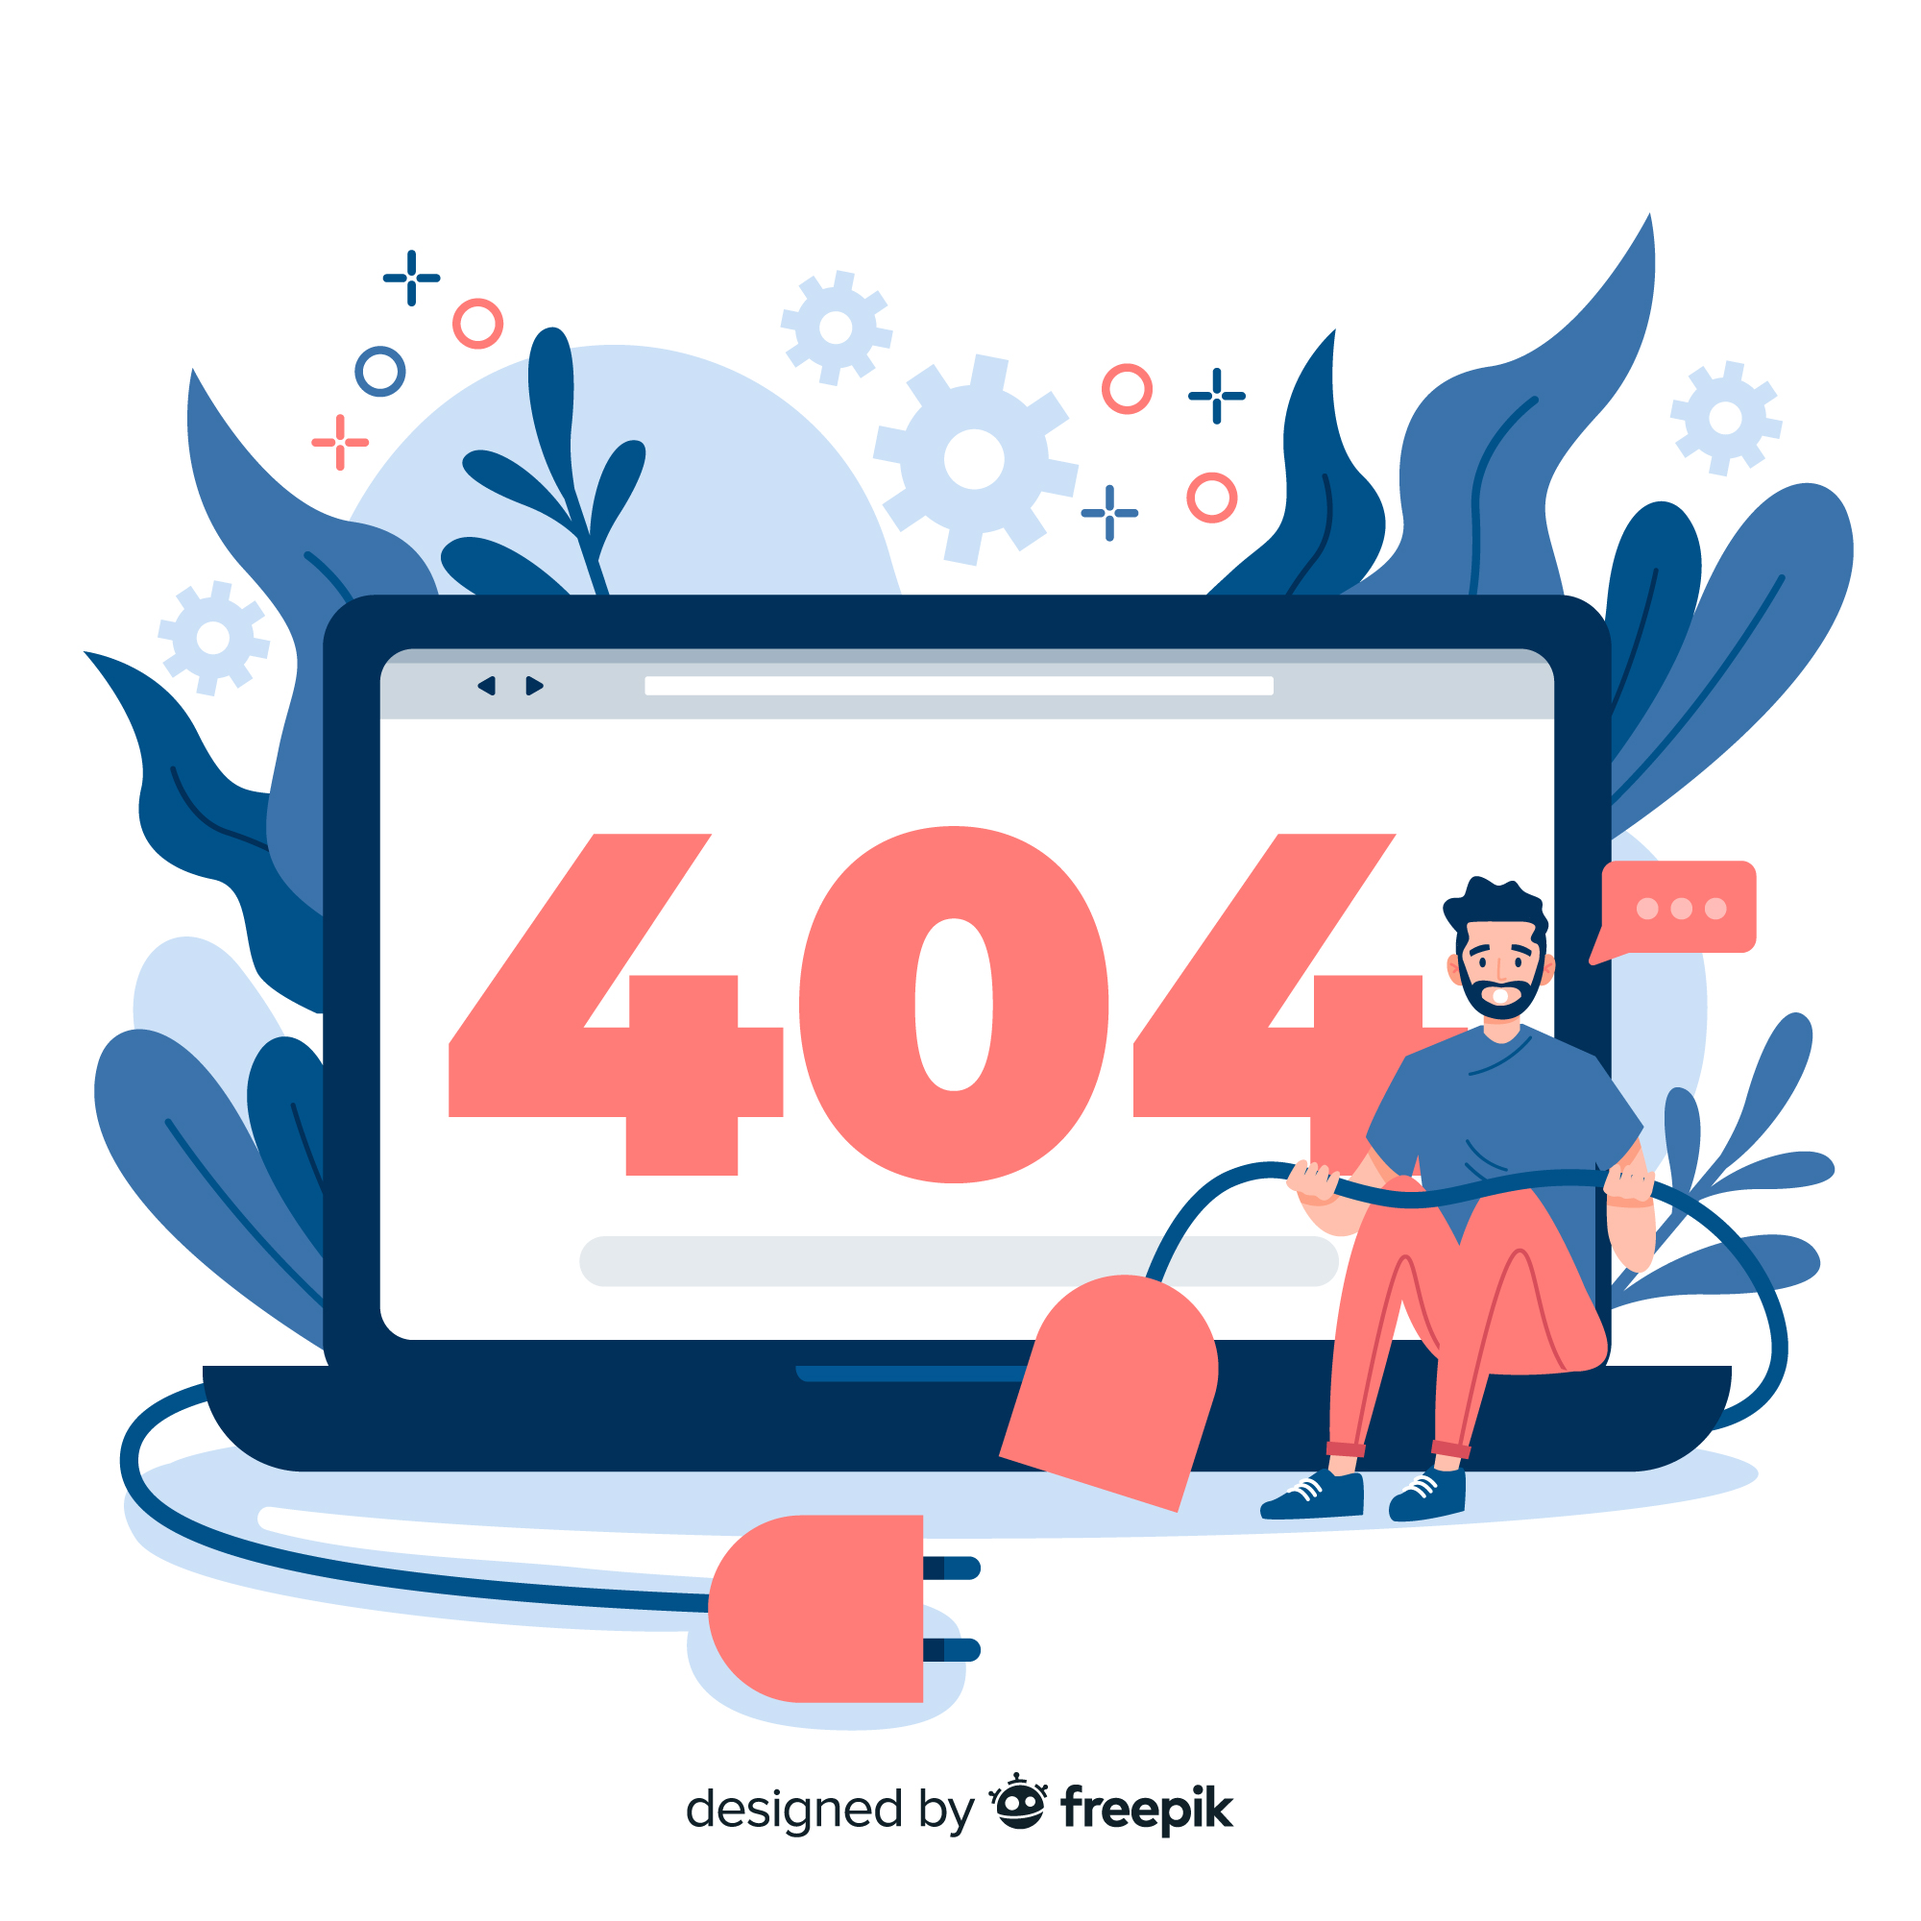
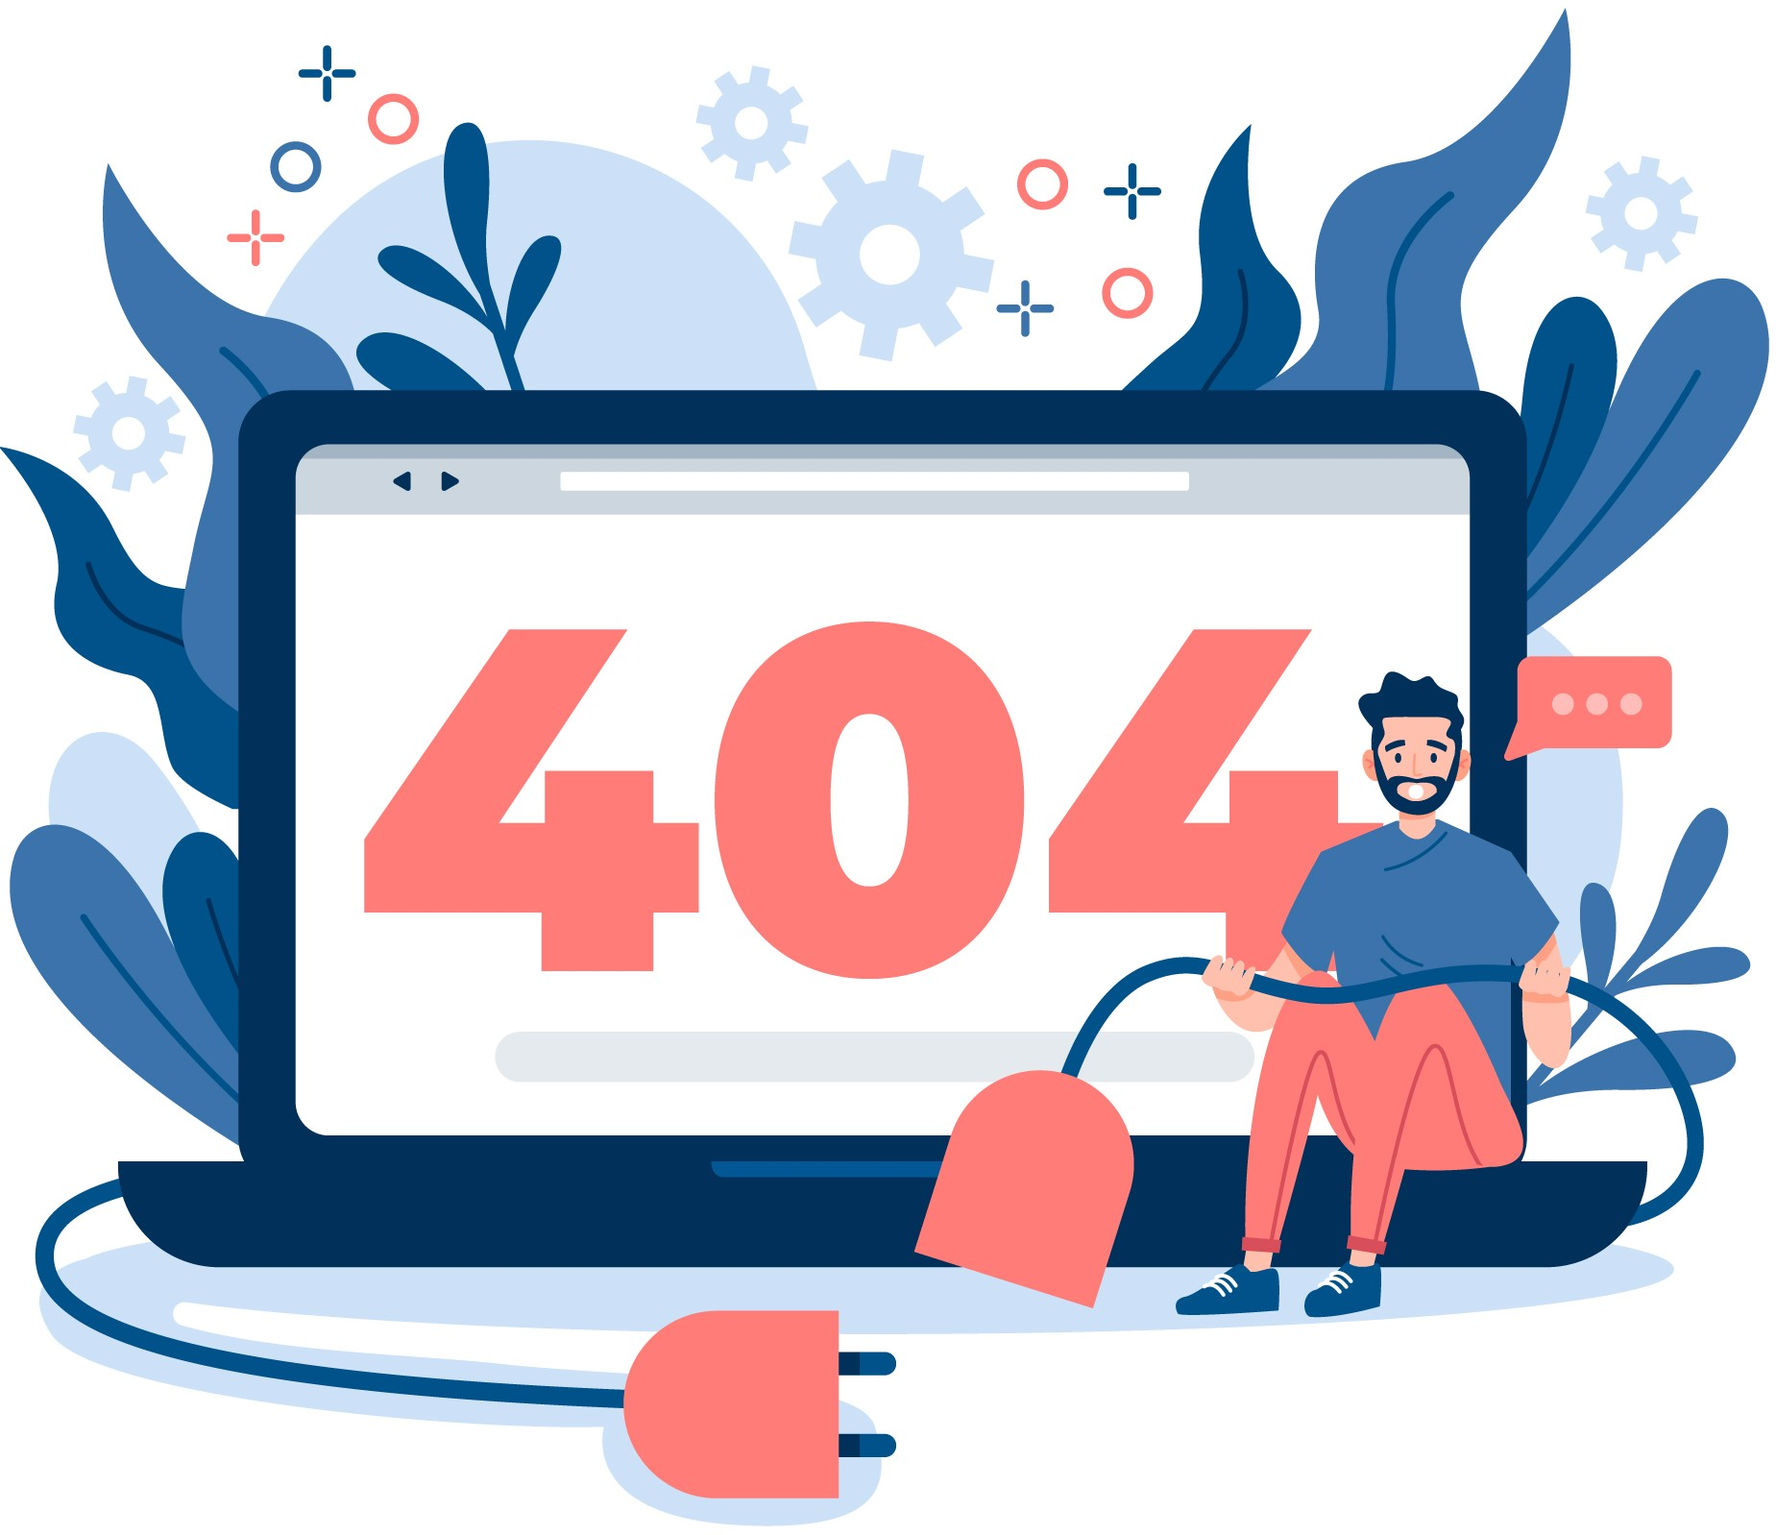
Published

diff --git a/build/index.html b/build/index.html
@@ -1,1 +1,1 @@
-<!doctype html><html lang="en"><head><meta charset="utf-8"/><link rel="icon" href="/Amazing-Events-React/favicon.ico"/><meta name="viewport" content="width=device-width,initial-scale=1"/><meta name="theme-color" content="#000000"/><meta name="description" content="Web site created using create-react-app"/><link rel="apple-touch-icon" href="/Amazing-Events-React/logo192.png"/><link rel="manifest" href="/Amazing-Events-React/manifest.json"/><title>Amazing Events</title><script defer="defer" src="/Amazing-Events-React/static/js/main.1a3f59b0.js"></script><link href="/Amazing-Events-React/static/css/main.52a02c88.css" rel="stylesheet"></head><body><noscript>You need to enable JavaScript to run this app.</noscript><div id="root"></div></body></html>
+<!doctype html><html lang="en"><head><meta charset="utf-8"/><link rel="icon" href="/Amazing-Events-React/favicon.ico"/><meta name="viewport" content="width=device-width,initial-scale=1"/><meta name="theme-color" content="#000000"/><meta name="description" content="Web site created using create-react-app"/><link rel="apple-touch-icon" href="/Amazing-Events-React/logo192.png"/><link rel="manifest" href="/Amazing-Events-React/manifest.json"/><title>Amazing Events</title><script defer="defer" src="/Amazing-Events-React/static/js/main.8c43c67d.js"></script><link href="/Amazing-Events-React/static/css/main.addf8991.css" rel="stylesheet"></head><body><noscript>You need to enable JavaScript to run this app.</noscript><div id="root"></div></body></html>

diff --git a/src/Components/pure/card.jsx b/src/Components/pure/card.jsx
@@ -3,6 +3,9 @@ import { Link } from 'react-router-dom';
 import { moneyFormater } from '../../service/moneyFormat';
 
 const Card = ({ event, addFavorite, removeFavorite, backOfDetails }) => {
+
+    const domain = '/Amazing-Events-React'
+
     return (
         <div className="max-w-sm bg-white rounded-lg borde shadow-md w-60 bg-contain my-5 mx-2">
             <div className='w-full h-40 rounded-t-lg' style={{ backgroundImage: `url(${event.image})` }} />
@@ -14,7 +17,7 @@ const Card = ({ event, addFavorite, removeFavorite, backOfDetails }) => {
                     {event.estimate ? <p className='font-bold bg-personalizado text-white px-1 rounded-md'>{moneyFormater(event.price)}</p> : undefined}
                 </div>
                 <div className='flex justify-around'>
-                    <Link onClick={backOfDetails} to={`/events/${event._id}`} className="inline-flex items-center links hover:underline">
+                    <Link onClick={backOfDetails} to={domain + `/events/${event._id}`} className="inline-flex items-center links hover:underline">
                         View more
                         <svg className="ml-2 w-5 h-5" fill="currentColor" viewBox="0 0 20 20" xmlns="http://www.w3.org/2000/svg">
                             <path d="M11 3a1 1 0 100 2h2.586l-6.293 6.293a1 1 0 101.414 1.414L15 6.414V9a1 1 0 102 0V4a1 1 0 00-1-1h-5z"></path>

diff --git a/src/Components/pure/Nav.jsx b/src/Components/pure/Nav.jsx
@@ -6,14 +6,16 @@ import '../../Styles/nav.css'
 import NavDropdown from '../container/NavDropdown';
 
 const Nav = () => {
-    return (
 
+    const domain = '/Amazing-Events-React'
+
+    return (
         <div className='container mx-auto sticky top-0 shadow-personalizada z-10'>
             <Navbar
                 fluid={true}
                 rounded={true}
             >
-                <NavLink end to={'/'}>
+                <NavLink end to={domain + '/'}>
                     <img
                         src={Logo}
                         className="mr-3 h-6 sm:h-9"
@@ -22,10 +24,10 @@ const Nav = () => {
                 </NavLink>
                 <Navbar.Toggle />
                 <Navbar.Collapse>
-                    <NavLink end to={'/'}>Home</NavLink>
-                    <NavDropdown path={'/events'} />
-                    <NavLink to={'/contact'}>Contact</NavLink>
-                    <NavLink to={'/stats'}>Stats</NavLink>
+                    <NavLink end to={domain + '/'}>Home</NavLink>
+                    <NavDropdown path={domain + '/events'} />
+                    <NavLink to={domain + '/contact'}>Contact</NavLink>
+                    <NavLink to={domain + '/stats'}>Stats</NavLink>
                 </Navbar.Collapse>
             </Navbar>
         </div>

diff --git a/src/Components/container/NavDropdown.jsx b/src/Components/container/NavDropdown.jsx
@@ -4,6 +4,8 @@ import { NavLink, useLocation } from 'react-router-dom';
 
 const NavDropdown = ({ path }) => {
 
+    const domain = '/Amazing-Events-React'
+
     let actualPath = useLocation().pathname
     let dropdownRef = useRef('')
 
@@ -14,14 +16,14 @@ const NavDropdown = ({ path }) => {
                 label="Events"
                 inline={true}
             >
-                <NavLink end to={'/events'}>
+                <NavLink end to={domain + '/events'}>
                     <Dropdown.Item>All Events</Dropdown.Item>
                 </NavLink>
-                <NavLink to={'/events/upcoming'}>
+                <NavLink to={domain + '/events/upcoming'}>
                     <Dropdown.Item>Upcoming Events</Dropdown.Item>
                 </NavLink>
 
-                <NavLink to={'/events/past'}>
+                <NavLink to={domain + '/events/past'}>
                     <Dropdown.Item>Past Events</Dropdown.Item>
                 </NavLink>
 

diff --git a/src/Components/pure/NotFoundComponent.jsx b/src/Components/pure/NotFoundComponent.jsx
@@ -4,10 +4,7 @@ import NotFoundImg from "../../resources/notFound.jpg";
 
 const NotFoundComponent = () => {
     return (
-        <div className='h-80vh flex justify-center items-center'>
-            <Title title={'Not Found'} >
-                <img src={NotFoundImg} />
-            </Title>
+        <div className='h-80vh flex justify-center items-center bg-contain bg-center bg-no-repeat my-10' style={{ backgroundImage: `url(${NotFoundImg})` }}>
         </div>
     );
 }
